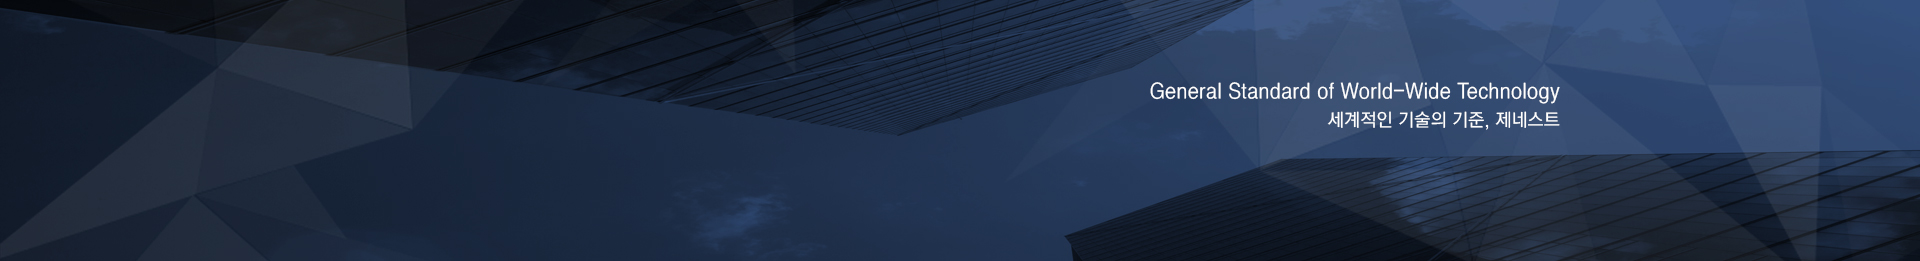
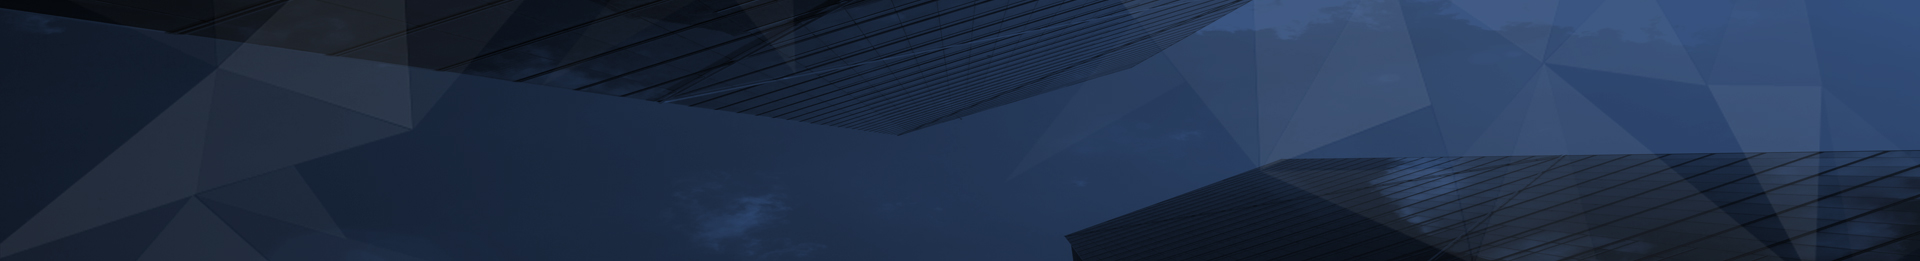
night

Changed region(s): [[0.5938, 0.3065, 0.8125, 0.3985], [0.6875, 0.4291, 0.8125, 0.4904]]

diff --git a/new/aboutus.html b/new/aboutus.html
@@ -21,11 +21,17 @@
     <link href="css/bootstrap/offcanvas.css" rel="stylesheet">
     <link href="css/bootstrap/carousel.css" rel="stylesheet">
     
+    <link href="https://fonts.googleapis.com/css?family=Nanum+Gothic" rel="stylesheet">
+    <link rel="stylesheet" href="https://use.fontawesome.com/releases/v5.8.1/css/all.css" integrity="sha384-50oBUHEmvpQ+1lW4y57PTFmhCaXp0ML5d60M1M7uH2+nqUivzIebhndOJK28anvf" crossorigin="anonymous">
+
+
     <link href="css/p_main.css" rel="stylesheet">
     
     
     <style>
-               
+        
+        
+  
     </style>
     
 </head>
@@ -91,20 +97,43 @@
                 </ul>
                 <ul class="navbar-nav mr-right">
                     <li class="nav-item  dropdown">
-                        <a class="nav-link " href="#" id="dropdown01" data-toggle="dropdown" aria-haspopup="true" aria-expanded="true">회사소개</a>
+                        <a class="nav-link " href="#" id="dropdown01" data-toggle="dropdown" aria-haspopup="false" aria-expanded="false">회사소개</a>
                         <div class="dropdown-menu" aria-labelledby="dropdown01">
-                            <a class="dropdown-item" href="#">제네스트</a>
+                            <a class="dropdown-item" href="#">소개</a>
                             <a class="dropdown-item" href="#">CEO 인사말</a>
                             <a class="dropdown-item" href="#">연혁</a>
                             <a class="dropdown-item" href="#">조직도</a>
+                            <a class="dropdown-item" href="#">사업장안내</a>
                             <a class="dropdown-item" href="#">인증현황</a>
                             <a class="dropdown-item" href="#">오시는길</a>
                         </div>
                     </li>
-                    <li class="nav-item "><a class="nav-link" href="#">회사전경</a></li>
-                    <li class="nav-item "><a class="nav-link" href="#">생산제품</a></li>
-                    <li class="nav-item "><a class="nav-link" href="#">보유설비</a></li>
-                    <li class="nav-item "><a class="nav-link" href="#">고객센터</a></li>
+                    <li class="nav-item ">
+                        <a class="nav-link" href="#" id="dropdown02" data-toggle="dropdown" aria-haspopup="false" aria-expanded="false">회사전경</a>
+                        
+                    </li>
+                    <li class="nav-item dropdown">
+                        <a class="nav-link" href="#" id="dropdown03" data-toggle="dropdown" aria-haspopup="false" aria-expanded="false">생산제품</a>
+                        <div class="dropdown-menu" aria-labelledby="dropdown03">
+                            <a class="dropdown-item" href="#">의료기</a>
+                            <a class="dropdown-item" href="#">항공산업</a>
+                            <a class="dropdown-item" href="#">시타 산업부품</a>
+                        </div>
+                    </li>
+                    <li class="nav-item dropdown">
+                        <a class="nav-link" href="#" href="#" id="dropdown04" data-toggle="dropdown" aria-haspopup="false" aria-expanded="false">보유설비</a>
+                        <div class="dropdown-menu" aria-labelledby="dropdown04">
+                            <a class="dropdown-item" href="#">생산설비</a>
+                            <a class="dropdown-item" href="#">검사설비</a>
+                        </div>
+                    </li>
+                    <li class="nav-item dropdown">
+                        <a class="nav-link" href="#" href="#" id="dropdown05" data-toggle="dropdown" aria-haspopup="false" aria-expanded="false">고객센터</a>
+                        <div class="dropdown-menu" aria-labelledby="dropdown05">
+                            <a class="dropdown-item" href="#">공지사항</a>
+                            <a class="dropdown-item" href="#">온라인문의</a>
+                        </div>
+                    </li>
                 </ul>
             </div>
         </div>
@@ -141,7 +170,21 @@
         -->
         <!--<div class="row" style="background-image: url('images/intro/keyvisual.jpg'); height: 261px;background-position: center">
         </div>-->
-        <div class="row" style="background-color : dimgrey; height: 261px;background-position: center">
+        <div class="" style="background-color : dimgrey; height: 261px;background-position: center; background-image: url(images/sub/sub1_img.jpg); background-position: center;">
+            <div class="container">
+                <div class="row">
+                    <div class="col-3 left_menu_top" style="margin-top: 224px;">
+                        <div style="width: 230px; height: 37px;background-color: cadetblue; margin-top: 0px;">
+                            <img src="images/sub/left_menu_top.jpg">
+                        </div>
+                    </div>
+                    <div class="col-sm-9 col-md-9">
+                        <h5 class="title_text text-right title_margin">General Standard of World-Wide Technology</h5>
+                        <h6 class="title_text text-right">세계적인 기술의 기준, 제네스트</h6>
+                    </div>
+                </div>
+            </div>
+            
         </div>
         
         <!--            
@@ -151,8 +194,10 @@
         <div style="background-color: white">
             <div class="container" style="background-color: white">
                 <div class="row">
-                    <div class="col-3" style=";width: 230px;">
-                        <div style="width: 230px; height: 50px;background-color: cadetblue; margin-top: 0px;"></div>
+                    <div class="col-sm-3 left_menu" >
+                        <div style="width: 230px; height: 50px;background-color: cadetblue; margin-top: 0px;">
+                            <img src="images/sub/left_menu_01.jpg">
+                        </div>
                         <ul class="list-unstyled" style="width:230px;">
                             <li class="border p-3 text-center">제네스트</li>
                             <li class="border p-3 text-center">CEO 인사말</li>
@@ -162,18 +207,18 @@
                             <li class="border p-3 text-center">오시는길</li>
                         </ul>
                     </div>
-                    <div class="col-9 mt-3"  style="background-color: white; padding: 0px; " >
-                        <div class="" style="background-color: white; padding:0;padding: 0px;">
+                    <div class="col-sm-9 col-md-9 mt-3"  style="background-color: white; padding: 0px; " >
+                        <div class="main_contents" style="background-color: white; ">
                             <div style="background-color: black; height: 3px; width : 30px; padding:0;"></div>
                             <div class="row " style="padding: 15px 0">
                                 
-                                    <h3 class="col-4" style=" ">제네스트</h3>
+                                    <h3 class="col-6" style=" ">제네스트</h3>
                                 
-                                <div class="col-8 text-right" style="padding-top: 15px;font-size: 12px;"><img src="images/comm/dot_home.jpg"/> 회사소개 > 제네스트</div>
+                                <div class="col-6 text-right" style="padding-top: 15px;font-size: 12px;"><img src="images/comm/dot_home.jpg"/> 회사소개 > 제네스트</div>
                             </div>
                             <hr class="border-bottom-secondary" style="margin: 0;"/>
-                            <div class="mt-3">
-                                <img src="images/intro/aboutus.jpg">
+                            <div class="mt-3 text-center">
+                                <img class="c_img" src="images/intro/aboutus.jpg" >
                             </div>
                         </div>
                     </div>
@@ -184,19 +229,20 @@
                 </div>
             </div>
         </div>
+    </main>
         
-        
-        
-        <footer class="bg-secondary">
-            <div class="container p-4 text-white" style="line-height: 120%;  ">
-                <h5 style="letter-spacing: -1px;">(주)제네스트</h5>
-                <h6 style="word-spacing: -1px;">
-                    대표이사: 이전행 주소:경기도 광명시 하안로60, A-810, 811, 812호 (소하동, 광명SK테크노파크) TEL: 02-2083-3052~3, FAX: 02-2083-3054, Email : biz@genest.co.kr <br>
-                    COPYRIGHT@ 2019 GENEST, ALL RIGHTS RESURVED.
-                </h6>
-            </div>
-        
-        </footer>
+    
+    <footer class="bg-secondary">
+        <div class="container p-4 text-white" style="line-height: 120%;  ">
+            <h5 style="letter-spacing: -1px;">(주)제네스트</h5>
+            <h6 style="word-spacing: -1px;">
+                대표이사: 이전행 주소:경기도 광명시 하안로60, A-810, 811, 812호 (소하동, 광명SK테크노파크) TEL: 02-2083-3052~3, FAX: 02-2083-3054, Email : biz@genest.co.kr <br>
+                COPYRIGHT@ 2019 GENEST, ALL RIGHTS RESURVED.
+            </h6>
+        </div>
+
+    </footer>
+
 
 
     <!-- Bootstrap core JavaScript
@@ -207,19 +253,20 @@
     </script>
     <script src="js/assets/vendor/popper.min.js"></script>
     <script src="js/bootstrap/bootstrap.min.js"></script>
-    <script src="js/assets/js/vendor/holder.min.js"></script>
+    <script src="js/assets/vendor/holder.min.js"></script>
     <script src="js/bootstrap/offcanvas.js"></script>
 
     <script>
 
         $(document).ready(function(){
 
-            $('#dropdown01').hover(function() {
-                //$(this).parent().addClass('show');
+            $('.nav-item, .dropdown-menu').hover(function() {
+                $(this).find('.dropdown-menu').show();
                 //$(this).addClass('show');
                 //$(this).parent().children('.dropdown-menu').addClass('show');
                 //alert(1);
             }, function() {
+                $(this).find('.dropdown-menu').hide();
                 //$(this).parent().removeClass('show');
                 //$(this).removeClass('show');
                 //$(this).parent().children('.dropdown-menu').removeClass('show');

diff --git a/new/css/p_main.css b/new/css/p_main.css
@@ -53,6 +53,18 @@
         /*height:208px;*/
         width : 100%;
     }
+    .left_menu{
+        display: none;
+    }
+    .main_contents .c_img {
+        width: 100%;
+    }
+    .left_menu_top {
+        display: none;
+    }
+    .main_contents  {
+        padding : 0 25px;
+    }
 
 }
 
@@ -160,8 +172,24 @@
 
 
 
+/* SUB PAGE */
 
+.title_text {
+    color: white;
+    font-weight: 500;
+    padding-right: 35px;
+    word-spacing: 2px;
+    vertical-align: middle;
+}
 
+h6.title_text {
+    font-size : 16px;
+    font-weight: bold;
+}
+
+.title_margin {
+    
+}
 
 
 

diff --git a/new/css/p_sub.css b/new/css/p_sub.css
@@ -1,0 +1,8 @@
+@media ( max-width :1023px) {
+    .left_menu{
+        display: none;
+    }
+
+}
+
+
